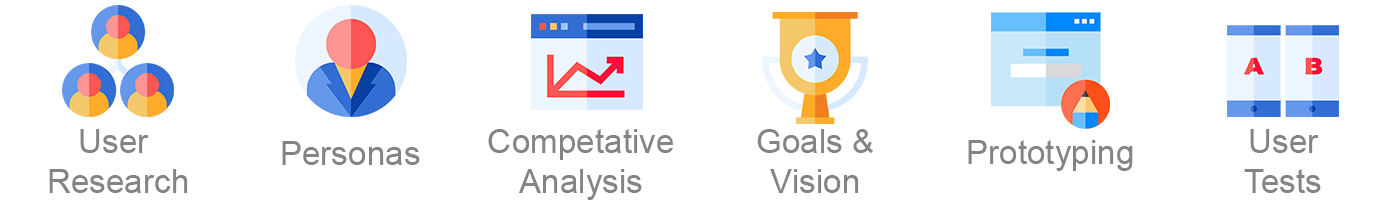
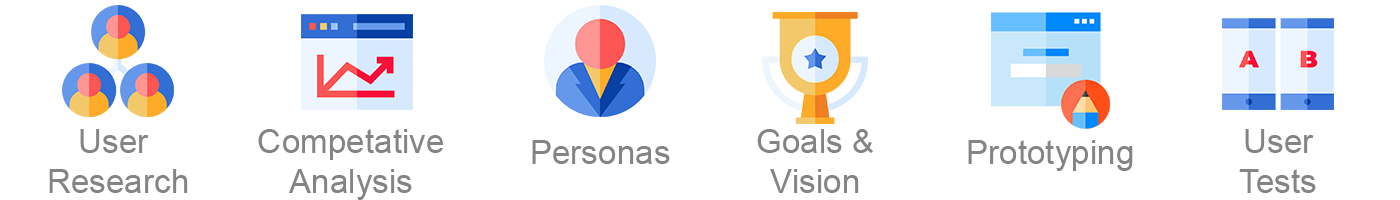
new content

diff --git a/src/components/ProjectModal2.jsx b/src/components/ProjectModal2.jsx
@@ -1,5 +1,9 @@
 import React from 'react'
 import './ProjectModal.css';
+import map from '../images/veloMap.jpg'
+import brain from '../images/brainstormingVelo.jpg'
+import app from '../images/veloApp.png'
+import velo from '../images/veloType.png'
 
 function ProjectModal2(props) {
         return (
@@ -19,16 +23,42 @@ function ProjectModal2(props) {
                             <div className="processContainer">
                                 <img className="processPic" src={props.process} alt=""></img>
                             </div>
-                            <p> <h6>User Research </h6><br></br>I learned things about blalal and experienced balalal when implementing blalal</p>
-                            <p> <h6>Personas </h6><br></br>I learned things about blalal and experienced balalal when implementing blalal</p>
-                            <p> <h6>Competative Analysis </h6><br></br>I learned things about blalal and experienced balalal when implementing blalal</p>
-                            <p> <h6>Goals &amp; Visions </h6><br></br>I learned things about blalal and experienced balalal when implementing blalal</p>
-                            <p> <h6>Prototyping </h6><br></br>I learned things about blalal and experienced balalal when implementing blalal</p>
-                            <p> <h6>User Tests </h6><br></br>I learned things about blalal and experienced balalal when implementing blalal</p>
-                            <br></br>
-                            <br></br>
+                            <p> <h6>Research </h6><br></br>
+                            To identify why people chose the bicycle as their mode of transportation and potential pain points, interviews with bicyclists was held. 
+                            Initially we began de ideation process by brainstorming together a mind-map of bicycle related things to get an idea 
+                            of what to include in the interview questions.</p>
+                            <img className="mapPic" src={map} alt=""></img>
+                            <p>Among other things, we learned that people bicycled because it was the fastest alternative and that it offered a lot of freedom and exercise. Some pain 
+                                points was the availability of air pumps and bike lanes in the city.  </p>
+                            <p> <h6>Competative Analysis </h6><br></br>
+                            Here I looked at a number of bike gadgets and how they were designed to either be used on a bicycle or 
+                            attached to it. Some examples are the Hövding-helmet, lightweight portable pumps, and navigational devices.</p>
+                            <p> <h6>Personas and Brainstorming </h6><br></br>
+                            From the results of the user research we developed personas which we the used in a series of brainstorming exercises, 
+                            parallel design and collaborative iteration, to generate new design ideas. The personas was also used in establishing 
+                            functional requirements such as lightweight, durable and easy access.</p>
+                            <img className="mapPic" src={brain} alt=""></img>
+                            <p> <h6>Goals &amp; Visions </h6><br></br>
+                            We set our goal to aiding bicyclists in reaching their destination as efficiently as possible. The vision being:
+                             to empower people to take their bicycle wherever they want to go. We therefore set our sights on creating a navigation device, 
+                             connected to your smartphone, specifically designed for bicycles and bicyclist’s needs. 
+                            </p>
+                            <p> <h6>Prototyping </h6><br></br>
+                            Two digital prototypes, one for the device (the actual Velo) and one for the mobile app, was developed. First we created wireframes 
+                            and a basic site map. </p>
+                            <img className="mapPic" src={app} alt=""></img>
+                            <p>Then high fidelity interactive prototypes was developed, using the Just in Mind prototyping tool. The Velo itself consists of a circular module with a matte screen and a ring of green LED-lights around it. It allows you to search 
+                                for a location and then show you the way to it, either directly by pre-set locations on the Velo, or by searching 
+                                manually in the accompanying smartphone app. It then shows you the way through the ring of LEDs around the screen, 
+                                or as we like to call it, the compass ring.</p>
+                            <img className="typePic" src={velo} alt=""></img>
+                            <p> In the app you control things like setting a custom destination, as well as configuring your 
+                                pre-set destinations and mode configurations for direct use in the Velo. You can also see the overall statistics of 
+                                your health, with for example calories burnt or distance biked this week, month or for the whole year.</p>
                             <h4 className="font-weight-normal">What I learned</h4>
-                            <p>I learned things about blalal and experienced balalal when implementing blalal</p>
+                            <p>During this project I got better at the ideation phase, learning and applying new brainstorming methods which really 
+                                proved useful for coming up with new design solutions. I also found these methods being good team building exercises 
+                                and helped us communicate better. Further I got better at developing interactive prototypes.  </p>
                         </div>
                     </div>
                 </div>

diff --git a/src/components/ProjectModal1.jsx b/src/components/ProjectModal1.jsx
@@ -22,11 +22,11 @@ function ProjectModal1(props) {
                             <p> <h6>User Research </h6><br></br>Interviewed potential users about how and why they use music while exercising, what their goal 
                             is and to identify pain points. One thing learned was that users listened to music to get a boost while exercising, but they 
                             thought that it was a hassle to get the music to adapt to their workout.</p>
+                            <p> <h6>Competative Analysis </h6><br></br>Here I looked at other apps commonly used while exercising, such as Runkeeper. 
+                            One of its strengths for example was its lack of needed interaction. </p>
                             <p> <h6>Personas </h6><br></br>Based on the user research we defined a target group and personas to help us develop design requirements, 
                             such as uninterruptive interaction.   
                              </p>
-                            <p> <h6>Competative Analysis </h6><br></br>Here I looked at other apps commonly used while exercising, such as Runkeeper. 
-                            One of its strengths for example was its lack of needed interaction. </p>
                             <p> <h6>Goals &amp; Visions </h6><br></br>Goal to make it easier to use Spotify Running with the vision: The design of Spotify Running should work instantly in synergy with your workout and flawlessly adapt to your own personal taste in music.</p>
                             <p> <h6>Prototyping </h6><br></br>After some brainstorming and wireframing a final product design was decided. </p>
                             <img className="wirePic" src={wireframes} alt=""></img>
@@ -40,9 +40,11 @@ function ProjectModal1(props) {
                                 eliminating interruptive interaction with the phone.   </p>
                             <p> <h6>User Tests </h6><br></br>Put users in a scenario and performing a 
                             think-aloud to catch potential design problems while using the prototype. Used Microsoft Reaction Card Method to test the desirability of the prototype. Short user interview.</p>
-                            <br></br>
                             <h4 className="font-weight-normal">What I Learned</h4>
-                            <p>I learned things about blalal and experienced balalal when implementing blalal</p>
+                            <p>Aside from learning more about the UX design process I also gained more experience on how to work in a group with several designers. 
+                                We were five people on the team and we had to divide the work appropriately based on interest and skill. 
+                                In developing new design ideas and then deciding which ideas to continue improving, communication and everyone 
+                                being on the same page was key.  </p>
                         </div>
                     </div>
                 </div>

diff --git a/src/components/ProjectModal4.jsx b/src/components/ProjectModal4.jsx
@@ -1,5 +1,6 @@
 import React from 'react'
 import './ProjectModal.css';
+import fogg from '../images/Fogg.jpg'
 
 function ProjectModal4(props) {
         return (
@@ -13,11 +14,19 @@ function ProjectModal4(props) {
                         </button>
                         </div>
                         <div className="modal-body">
+                        <p className="lead">Depending on through which modality information is conveyed, we humans may perceive it differently.
+                        This project examines how this can be used to <span className="blue font-weight-bolder">enhance the user experience</span> in
+                         such a way that it <span className="blue font-weight-bolder">persuades the user</span> to change 
+                        behavior into a more sustainable one.</p>
                             <h4 className="font-weight-normal">Process</h4>
                             <div className="processContainer">
                                 <img className="processPic" src={props.process} alt=""></img>
                             </div>
-                            <p> <h6>Research </h6><br></br>I learned things about blalal and experienced balalal when implementing blalal</p>
+                            <p> <h6>Research </h6><br></br>
+                            To create the website, I first had to research behavior change techniques and persuasive design and technologies. Some 
+                            useful information that I found was for instance: that an increased social presence persuade easier and for a behavior 
+                            to occur the user need sufficient motivation and ability and then a triggering event. </p>
+                            <img className="foggPic" src={fogg} alt=""></img>
                             <p> <h6>Wireframing </h6><br></br>I learned things about blalal and experienced balalal when implementing blalal</p>
                             <p> <h6>Web Development </h6><br></br>I learned things about blalal and experienced balalal when implementing blalal</p>
                             <p> <h6>User Tests </h6><br></br>I learned things about blalal and experienced balalal when implementing blalal</p>

diff --git a/src/components/ProjectModal3.jsx b/src/components/ProjectModal3.jsx
@@ -13,7 +13,7 @@ function ProjectModal3(props) {
                         </button>
                         </div>
                         <div className="modal-body">
-                            <p>{props.brief}</p>
+                            <p className="lead">Depending on through which modality information is conveyed, we humans may perceive it differently.</p>
                             <h4 className="font-weight-normal">Process</h4>
                             <div className="processContainer">
                                 <img className="processPic" src={props.process} alt=""></img>

diff --git a/src/components/ProjectModal.css b/src/components/ProjectModal.css
@@ -3,12 +3,30 @@
 }
 
 .protoPic {
-    width: 80%;
+    width: 90%;
     margin-bottom: 2%;
 }
 
 .wirePic {
-    width: 80%;
+    width: 90%;
+}
+
+.foggPic {
+    width: 60%;
+    margin-top: 2%;
+    margin-bottom: 4%;
+}
+
+.mapPic {
+    width: 90%;
+    height: 300px;
+    margin-bottom: 3%;
+    object-fit: cover;
+}
+
+.typePic {
+    width: 90%;
+    margin-bottom: 3%;
 }
 
 .processContainer {
@@ -26,4 +44,8 @@ h6 {
 
 .modal-content {
     padding: 3%;
+}
+
+.pop {
+    background-color: rgba(29, 67, 130, 0.1);
 }

diff --git a/src/components/Projects.jsx b/src/components/Projects.jsx
@@ -56,7 +56,7 @@ export class Projects extends Component {
             <>
             <div className="container">
             <hr ref={this.focusProject}/>
-                <h1 className="projecth1 font-weight-normal">Projects</h1>
+                <h1 className="projecth1 font-weight-normal">Selected Projects</h1>
             </div>
             <div className="container" id="projects">
                 <div className="row" style={{marginBottom: '50px'}}>
